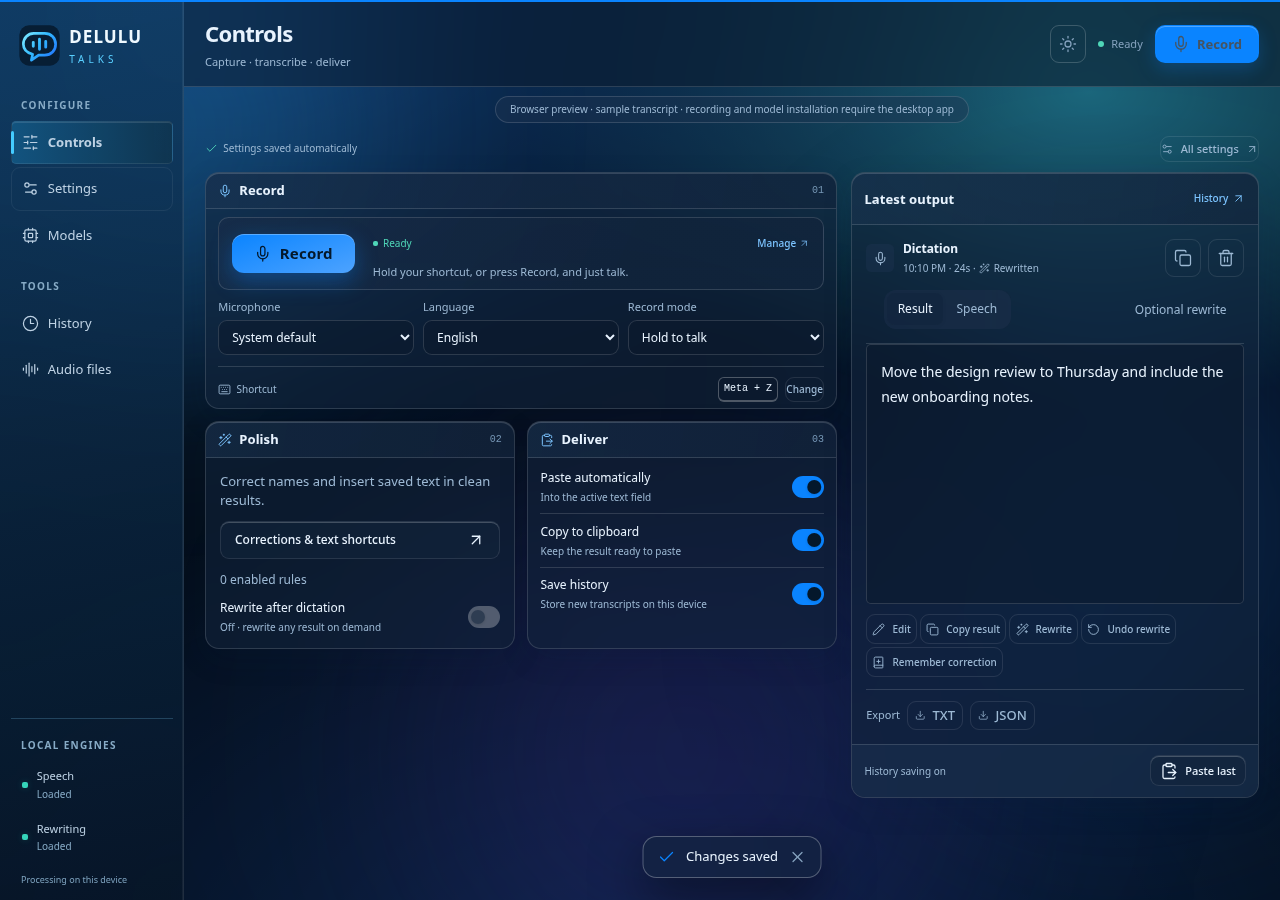
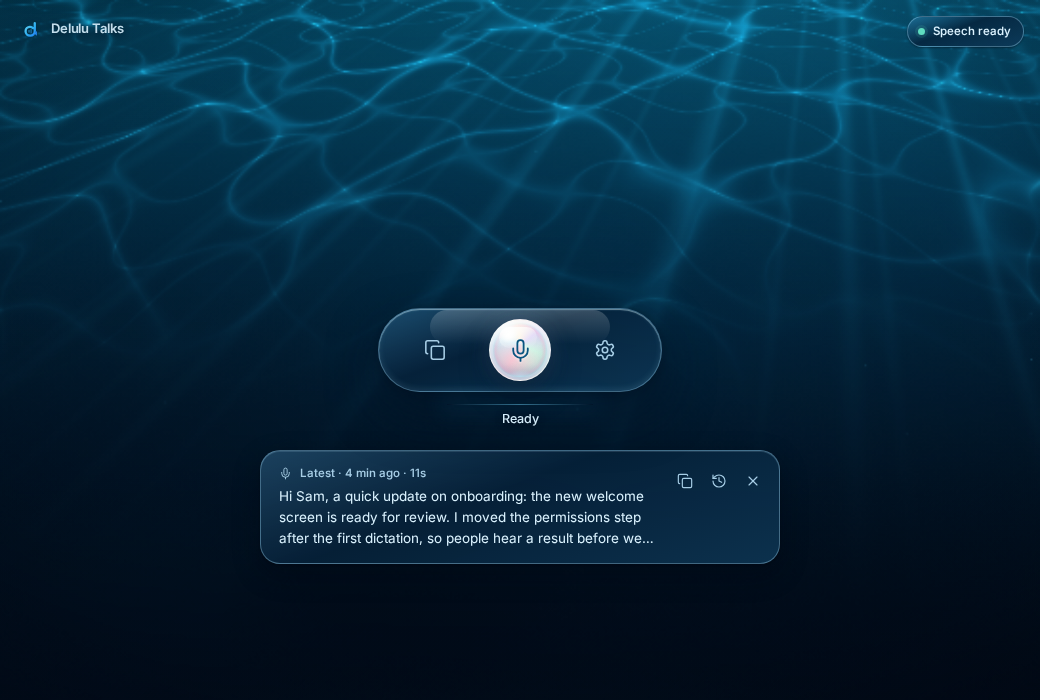
Prepare v0.11.0: Deep Sea release notes, README and version

diff --git a/src/components/ProfileActivationControls.tsx b/src/components/ProfileActivationControls.tsx
@@ -108,13 +108,17 @@ export function ProfileActivationControls({
     }
   }
   return (
-    <div className="grid gap-2 px-3.5 py-2.5 border-t border-line">
-      <p className="text-[12px]" title={label}>
-        {captureProfile ? "Capture profile" : "Active profile"}:{" "}
-        <strong>{label}</strong>
-      </p>
-      <div className="flex flex-wrap gap-2">
-        <label className="text-[11px] text-muted flex items-center gap-2">
+    <div className="card grid gap-3">
+      <div>
+        <span className="eyebrow">
+          {captureProfile ? "Capture profile" : "Active profile"}
+        </span>
+        <strong className="text-[15px]" title={label}>
+          {label}
+        </strong>
+      </div>
+      <div className="flex flex-wrap items-center gap-2">
+        <label className="text-[13px] text-muted flex items-center gap-2">
           Switch to
           <select
             aria-label="Profile to activate"
@@ -131,7 +135,7 @@ export function ProfileActivationControls({
           </select>
         </label>
         <button
-          className="secondary-button text-[11px]"
+          className="secondary-button"
           disabled={
             disabled || (choice === "global" && !settings.activePersonalProfile)
           }

diff --git a/README.md b/README.md
@@ -1,5 +1,5 @@
 <div align="center">
-  <img src="docs/assets/readme-header.svg" width="100%" alt="Delulu Talks — private desktop dictation, with the ocean-blue voice mark" />
+  <img src="docs/assets/readme-header.svg" width="100%" alt="Delulu Talks — private desktop dictation, with the deep-sea voice ribbon" />
   <p><strong>Native clean dictation. Personal corrections. Optional local rewriting.</strong></p>
   <p>
     <a href="https://github.com/JEMostert/delulu-talks/releases/latest"><img src="https://img.shields.io/github/v/release/JEMostert/delulu-talks?style=for-the-badge&amp;label=release&amp;color=16b3e8&amp;labelColor=0a2942" alt="Latest release" /></a>
@@ -50,30 +50,30 @@ On supported Wayland desktops, the recording pill stays above your apps without 
 
 ### Corrections and text shortcuts
 
-Open **Settings → Personalization** or the shortcut on Controls. Corrections replace specific recognized text; text shortcuts expand a spoken trigger into an exact saved block. Each rule has a live text preview and conflicting triggers are rejected. Editing a transcript can suggest a correction to remember, with explicit confirmation.
+Open **Personalization** from the dock or the command palette. Corrections replace specific recognized text; text shortcuts expand a spoken trigger into an exact saved block. Each rule has a live text preview and conflicting triggers are rejected. Editing a transcript can suggest a correction to remember, with explicit confirmation.
 
 Speech output stays untouched. Personalization creates a separate result, and exact shortcut blocks stay outside the writing model; only the surrounding text is rewritten. Failed automatic rewriting delivers the preserved transcript instead.
 
 Upgrading from an older release turns automatic rewriting and writing-model preloading off once, because earlier defaults did not establish an explicit choice. You can enable either independently afterward. Existing history and rules are retained. Old spelling-only entries are marked as needing a recognized phrase; historical transcripts cannot recover speech text already replaced by an older version.
 
-## Controls on launch
+## The interface
 
-The app opens directly into dictation controls. Microphone, language, shortcut, and delivery switches are immediately accessible. The latest result sits beside them, with editing, correction capture, optional rewriting, and export.
+Delulu Talks opens onto a living ocean with one pearl record button. Press it — or your shortcut from any app — and the pearl turns coral with a voice-level halo and a running clock; when you stop, your words are pasted where you were typing and the latest transcript floats beneath the controls with copy and open-in-history actions.
 
 <picture>
   <source media="(prefers-color-scheme: dark)" srcset="docs/assets/controls-dark.png" />
   <source media="(prefers-color-scheme: light)" srcset="docs/assets/controls-light.png" />
-  <img src="docs/assets/controls-dark.png" width="100%" alt="Delulu Talks controls: capture, transcription, personalization, and delivery settings beside the latest transcript" />
+  <img src="docs/assets/controls-dark.png" width="100%" alt="Delulu Talks home: a pearl record button on a deep-sea background with the latest transcript beneath it" />
 </picture>
 
-_Current interface captured from the browser preview with demo text. The image follows your light or dark theme._
+_Captured from the browser preview with demo text. The image follows your light or dark theme._
 
-The interface uses ocean-blue and navy panels with light/dark/system themes. Controls, Settings, and Models lead the navigation. Transcript rewriting, file transcription, model management, history and personalization share the same compact visual system. The application icon is an abstract ocean-blue voice mark. See the [editable brand assets](docs/BRAND.md).
+The **Deep Sea** design system has two themes — _Abyss_ (dark) and _Shallows_ (sunlit, light) — and follows your system by default. A glass sheet rises above a compact dock for History, Audio files, Models, Personalization, the Editor and Settings; <kbd>Ctrl</kbd>/<kbd>⌘</kbd> + <kbd>Shift</kbd> + <kbd>P</kbd> opens the command palette. The tray icon shows whether you are recording, busy, need attention or have an update. See the [design system](docs/DESIGN-SYSTEM.md) and [brand assets](docs/BRAND.md).
 
-- **Configure quickly:** priority controls fit above the fold in compact desktop windows.
+- **Configure quickly:** the gear opens quick settings for microphone, language, shortcut, paste and theme.
 - **Recover results:** paste the latest transcript, retry failed audio from memory, or discard it explicitly.
 - **Preserve originals:** corrections stay separate from model output and optional rewrites.
-- **Manage locally:** Settings → Runtime covers memory choices; Settings → Application covers appearance and app updates.
+- **Manage locally:** Settings → Performance covers memory and runtimes; Settings → App covers appearance, launch at login and updates.
 
 ## Local speech and writing models
 
@@ -114,16 +114,16 @@ Supported installed packages check GitHub Releases for updates. Downloads are ex
 
 ## Your first minute
 
-1. Open Delulu Talks. Controls are immediately available; the inline setup notice points you to model installation.
+1. Open Delulu Talks. The pearl record button is ready immediately; the “Set up speech” chip and the Models page guide model installation.
 2. Choose **Install engine**. The app installs the local runtime and downloads the model weights.
-3. Focus a text field and use the shortcut shown in Controls. On supported Wayland desktops, hold <kbd>Meta</kbd> + <kbd>Z</kbd>, speak, then release; toggle mode uses a second press to finish.
+3. Focus a text field and use the shortcut shown in quick settings. On supported Wayland desktops, hold <kbd>Meta</kbd> + <kbd>Z</kbd>, speak, then release; toggle mode uses a second press to finish.
 4. Dictate immediately with native clean output. Optionally install the rewriting engine in **Models**, then use **Rewrite** beside any result to preview, apply, or undo it. Automatic rewriting is a separate opt-in setting.
 
-The app manages separate isolated Python environments for platform-selected speech and Magic rewriting, plus a shared model cache, inside the platform application-data directory. Existing shared runtimes are detected as an “Update setup” migration instead of failing with a package conflict. Setup uses versioned dependency specifications, checks package compatibility, and records installed versions. Models → device health check reports Python, FFmpeg, memory, and runtime details; Settings → Application offers repair and update controls.
+The app manages separate isolated Python environments for platform-selected speech and rewriting, plus a shared model cache, inside the platform application-data directory. Existing shared runtimes are detected as an “Update setup” migration instead of failing with a package conflict. Setup uses versioned dependency specifications, checks package compatibility, and records installed versions. Models → device health check reports Python, FFmpeg, memory, and runtime details; Settings → Performance offers repair controls and Settings → App handles updates.
 
 ## Run from source
 
-You will need [Bun](https://bun.sh/), **Python 3.12 on Windows and native arm64 Python 3.12 on Apple Silicon** (Python 3.11–3.13 for Linux CUDA), and FFmpeg for compressed audio or video imports. On Mac, install Python using `brew install python@3.12` or `uv python install 3.12`; set its full path under Settings → Runtime if necessary. The Mac speech environment installs pinned MLX, MLX Audio, and Transformers packages; it does not install a vLLM server.
+You will need [Bun](https://bun.sh/), **Python 3.12 on Windows and native arm64 Python 3.12 on Apple Silicon** (Python 3.11–3.13 for Linux CUDA), and FFmpeg for compressed audio or video imports. On Mac, install Python using `brew install python@3.12` or `uv python install 3.12`; set its full path under Settings → Performance if necessary. The Mac speech environment installs pinned MLX, MLX Audio, and Transformers packages; it does not install a vLLM server.
 
 ```bash
 bun install
@@ -152,7 +152,7 @@ Electron main process
 │   ├── R2T2 speech runtime
 │   └── Qwen writing runtime
 └── sandboxed React renderer
-    ├── Controls + contextual transcript rewriting
+    ├── ocean shell, dock + contextual transcript rewriting
     ├── Audio files + History + Personalization
     └── Models + Settings + onboarding
 ```
@@ -182,10 +182,11 @@ electron/
   preload.ts          isolated renderer API
   services/           ASR, dictation, overlay, shortcuts, storage, paste, export
   overlay/            GTK4 layer-shell recording pill helper
-  python/             persistent speech + Magic worker
+  python/             persistent speech + rewriting worker
 src/
   components/         Electron app shell components
-  pages/              Controls, Audio files, History, Models, Settings
+  pages/              Audio files, History, Models, Personalization, Editor, Settings
+  styles/             Deep Sea tokens, primitives, shell and feature styles
   bridge.ts           typed Electron/browser boundary
   recorder.ts         microphone capture and 16 kHz WAV encoder
   data.ts             R2T2, Qwen, and language catalogs
@@ -217,7 +218,7 @@ Development uses its own **Delulu Talks Dev** profile, audio cache, and Linux de
 
 Repairs build a fresh environment under `speech-venv/generations/` (or the Writing runtime root), validate dependencies and imports, then atomically activate it. Virtualenv directories are never renamed. Failed installation leaves the previous runtime selected; a failed initial model load rolls activation back. Previous and interrupted generations are retained for recovery, so repairs temporarily require extra disk space. The existing `asr-venv` can still be the active Writing runtime; do not delete it merely because its name is old.
 
-Cold starts load model weights into GPU memory. **Settings → Runtime → Keep speech ready** keeps speech resident between recordings; turn it off when you prefer to reclaim VRAM after the idle delay. Unload stops the worker process tree, including vLLM's GPU subprocesses.
+Cold starts load model weights into GPU memory. **Settings → Performance → Keep speech ready** keeps speech resident between recordings; turn it off when you prefer to reclaim VRAM after the idle delay. Unload stops the worker process tree, including vLLM's GPU subprocesses.
 
 ```bash
 bun run format:check

diff --git a/docs/releases/v0.11.0.md b/docs/releases/v0.11.0.md
@@ -1,0 +1,43 @@
+# Delulu Talks v0.11.0 — Deep Sea
+
+A visual overhaul and a reliability release. Your settings, history, corrections, text shortcuts, profiles, runtime environments and downloaded models are preserved; updating from v0.10.x does not require Repair or another model download.
+
+## A new look: Deep Sea
+
+- **One design system.** The renderer's styling was rebuilt on shared tokens and primitives ([design system](../DESIGN-SYSTEM.md)) with bundled Inter and JetBrains Mono, verified text contrast in both themes, and no text below 11 px.
+- **Two themes.** _Abyss_ keeps the deep-sea look; the new _Shallows_ light theme turns the ocean into sunlit, caustic-lit water instead of putting pale panels on a dark sea.
+- **A calmer home.** The pearl button now has a recording clock, a silence-stop countdown and a breathing state while transcribing; the latest transcript floats below with copy and open-in-history; a chip shows whether speech is ready.
+- **Clearer navigation.** Sheets have titles, subtitles and a live status chip; the dock labels every destination and now includes Personalization; the command palette is a real palette.
+- **Every screen revisited.** Transcript cards show one meta line with Rewritten/Corrected badges and keep technical details in a Details section. Settings is reorganized into Recording, Delivery, Rewriting, Profiles, Performance, App and Local data with plain-language descriptions. Model cards show a status badge, runtime facts and Load/Unload/Repair. Audio files, Personalization and notices share the same components.
+- **New icon and tray.** The voice ribbon is recolored from mint to foam, current and ocean blue. The tray icon now shows idle, recording, busy, attention and update states on Linux, Windows and macOS, and the recording overlay uses the same palette.
+
+## Tray and lifecycle
+
+- The tray menu starts with a status line (sublabels never showed on Linux and Windows), adds Pause/Resume/Cancel while recording, merges paste-latest and cancel into one item, and groups preferences and destinations.
+- A refused tray action (for example "Restart to update" during a recording) is shown as a notification instead of marking the speech engine failed and blocking dictation.
+- macOS: clicking the menu-bar icon no longer opens the window and steals focus from the app you dictate into.
+- Launch at login now works on Linux (XDG autostart) and starts quietly in the tray; on GNOME without a tray extension the window is never hidden.
+- Production builds drop the reload and developer-tools shortcuts that could abort a recording; quitting waits briefly for model workers so GPU memory is released; a crashed renderer recovers automatically; the app checks for updates every six hours.
+
+## Dictation reliability
+
+- Audio that the recorder finishes on its own (recording limit, lost input, an unacknowledged pause) is now transcribed instead of being dropped with the app stuck in "paused" or "stopping".
+- Captures fail cleanly when the recorder never starts or finishes, so dictation cannot stay "recording" forever.
+- Pressing the shortcut during a paste no longer shows a JavaScript error dialog.
+- Silence becomes "No speech detected" without replacing audio kept for retry; quick taps report "too short" instead of a microphone error.
+- Capture resampling uses a proper anti-aliasing filter, Windows long recordings are split at quiet points instead of mid-word, and the worker's protocol can no longer be corrupted by output from vLLM subprocesses.
+- Wayland paste recovers after the remote-desktop session closes; stuck paste helpers time out.
+
+## Data and personalization fixes
+
+- Paste recovery ("Copy instead", "Dismiss"), cancelling a scheduled paste and the setup log work again.
+- Saving or activating a profile no longer fails once you have vocabulary rules; aliases survive profile switches and rule export/import.
+- Exports, the tray and template exports always use the current (corrected) text, and every export uses the same guarded, atomic writer with overwrite confirmation.
+- Settings number fields and the cue-volume slider can be typed and dragged normally.
+- Technical dictation keeps the space in `x = (a + b)`.
+
+## Updating
+
+Linux AppImage and Windows installer users can download the update from Settings → App, then restart when the app is idle. Other Linux packages and portable archives require replacing the matching installation. Unsigned Apple Silicon builds use manual updates: quit Delulu Talks, replace the app using the new DMG, then reopen it.
+
+The release workflow gates publication on cross-platform unit checks, Python checks, browser capture tests, native package builds, packaged-resource verification and release checksums. These checks do not establish physical microphone recognition, GPU inference or cross-application paste on every platform.
